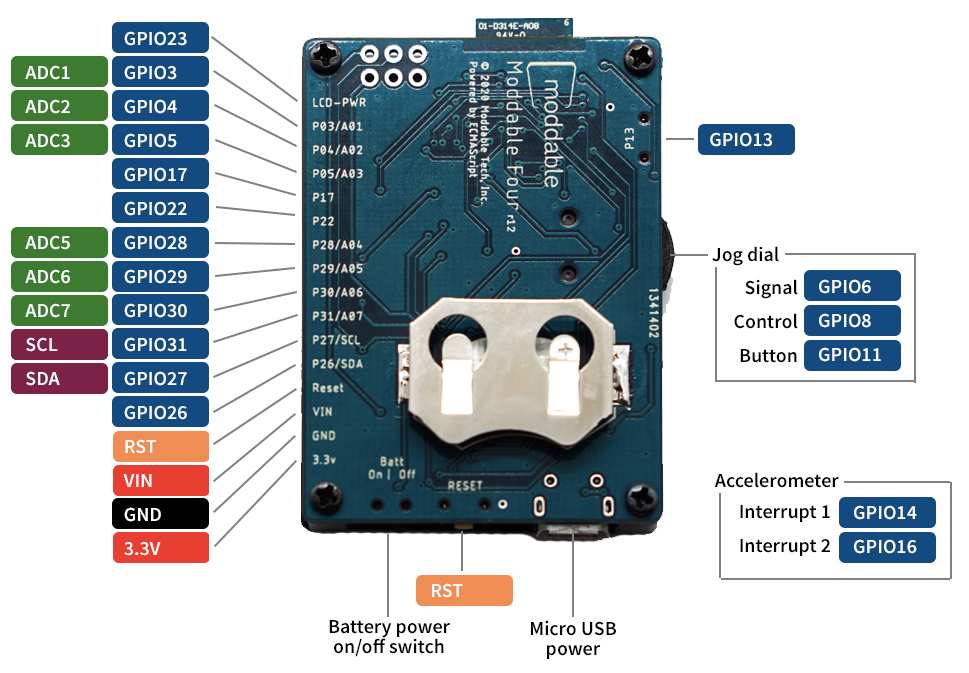
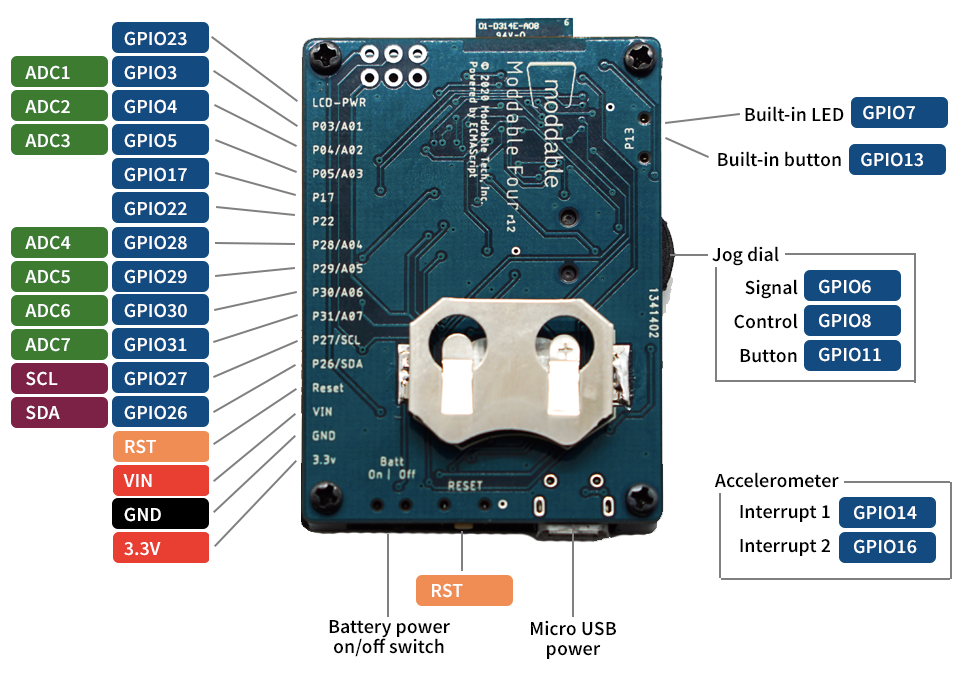
moddable four doc/pinout updates

Changed region(s): [[0.6811, 0.1248, 0.9907, 0.2808], [0.0, 0.4368, 0.1238, 0.6553], [0.0619, 0.3432, 0.0929, 0.3744]]

diff --git a/documentation/devices/moddable-four.md b/documentation/devices/moddable-four.md
@@ -1,7 +1,7 @@
 # Getting Started with Moddable Four
 
 Copyright 2020 Moddable Tech, Inc.<BR>
-Revised: March 25, 2020
+Revised: April 22, 2020
 
 This document describes how to start building Moddable applications for Moddable Four. It provides information on how to configure the host build environment and how to build and deploy apps. It also provides information about development resources, including a summary of the examples available in this repository that run on Moddable Four.
 
@@ -44,6 +44,11 @@ It also includes an integrated LIS3DH accelerometer, jog dial, and CR2032 batter
 ### Pinout
 
 <img src="../assets/devices/moddable-four-pinout.png">
+
+**Note:** LCD-PWR is not for arbitrary digital inputs/outputs. It is used to provide power to a sensor and to the screen. 
+
+- Writing `0` to GPIO23 emits 3.3V on LCD-PWR, which also gives power to the screen. 
+- Writing `1` to GPIO23 turns off the the pin and the screen.
 
 <a id="setup"></a>
 ## SDK and Host Environment Setup
@@ -253,8 +258,6 @@ As with all Moddable platforms, you can debug script code using `xsbug` and the 
 Some developers may need to debug native code. [SEGGER Embedded Studio](https://www.segger.com/products/development-tools/embedded-studio/) is a C/C++ IDE for embedded systems. It includes a debugger that allows you to set breakpoints and examine registers, variables, and memory. You can debug native code on Moddable Four using the SEGGER Embedded Studio debugger.
 
 This section explains how to set up your Moddable Four so it can be used with the SEGGER Embedded Studio debugger; for documentation on using the debugger, see the [documentation by SEGGER](https://www.segger.com/products/development-tools/embedded-studio/technology/debugger/).
-
-<!-- TO DO: needs an update to the new board layout-->
 
 Debugging native code on the Moddable Four with SEGGER Embedded Studio requires a [Nordic nRF52840 DK board](https://www.nordicsemi.com/Software-and-Tools/Development-Kits/nRF52840-DK) and an FTDI cable. 
 
